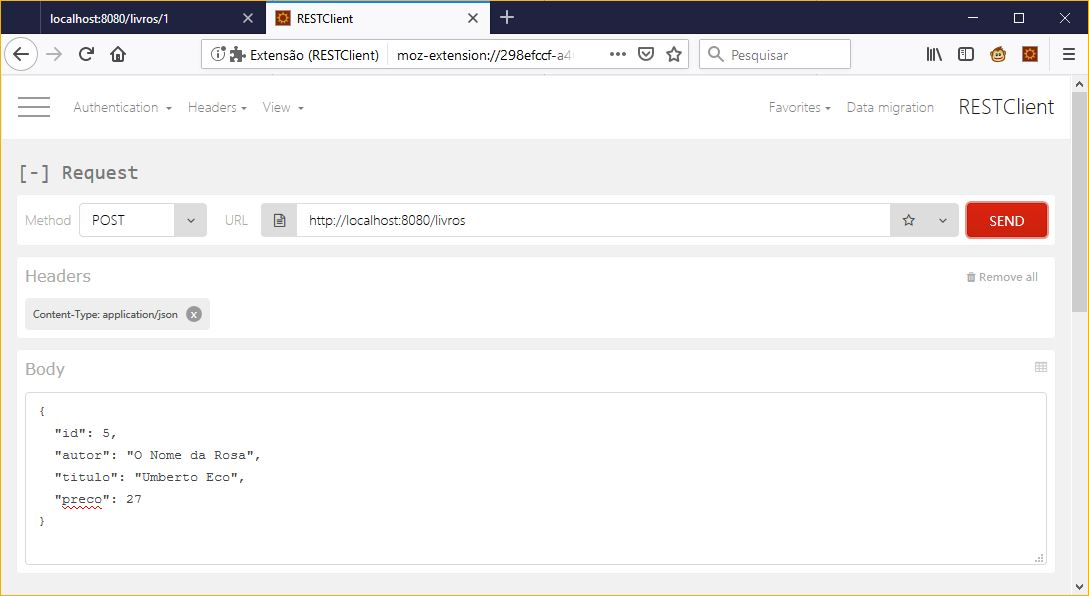
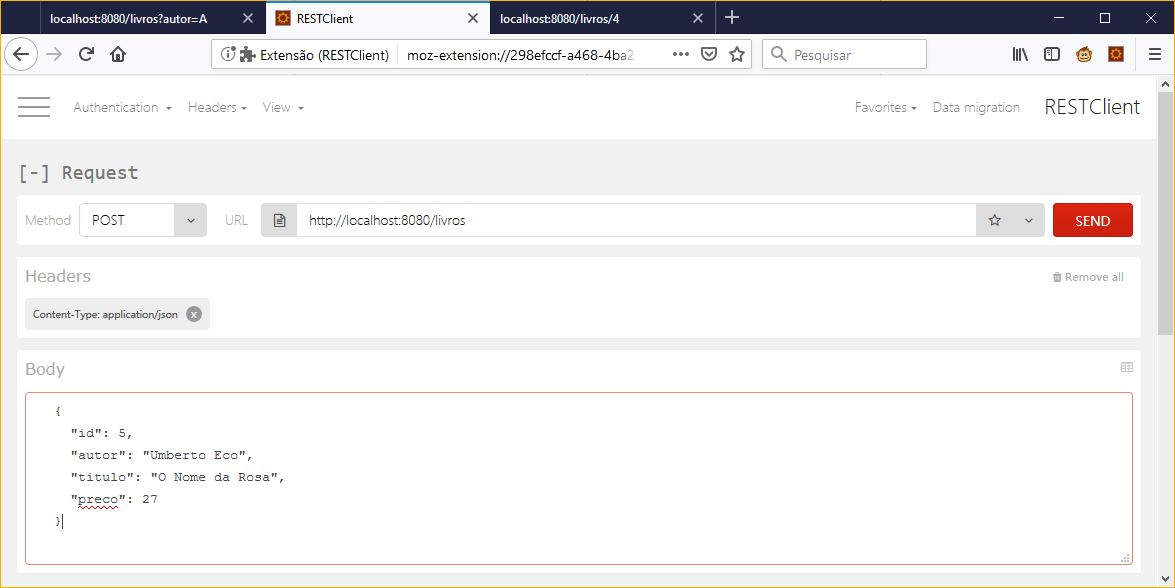
pesquisando

diff --git a/04-end-point-rest.md b/04-end-point-rest.md
@@ -8,22 +8,26 @@ Agora, iremos criar nosso primeiro web service RESTful com Spring.
 
 Criaremos um serviço que irá aceitar um request HTTP GET para:
 
-```http://localhost:8080/livros```
+```
+http://localhost:8080/livros
+```
+
 
 E responder com a representação JSON a seguir:
+
 
 ```json
 [
   {
     "id": 1,
-    "autor": "Don Quixote",
-    "titulo": "Miguel de Cervantes",
+    "autor": "Miguel de Cervantes",
+    "titulo": "Don Quixote",
     "preco": 44
   },
   {
     "id": 2,
-    "autor": "O Senhor dos Anéis",
-    "titulo": "J. R. R. Tolkien",
+    "autor": "J. R. R. Tolkien",
+    "titulo": "O Senhor dos Anéis",
     "preco": 23
   }
 ]
@@ -96,8 +100,8 @@ public class LivrosController {
 	public List<Livro> getLivros() {
 		ArrayList<Livro> livros = new ArrayList<Livro>();
 		
-		Livro l1 = new Livro(1l, "Don Quixote", "Miguel de Cervantes", 144.0);
-		Livro l2 = new Livro(2l, "O Senhor dos Anéis", "J. R. R. Tolkien", 123.0);
+		Livro l1 = new Livro(1l, "Miguel de Cervantes", "Don Quixote", 144.0);
+		Livro l2 = new Livro(2l, "J. R. R. Tolkien", "O Senhor dos Anéis", 123.0);
 		
 		livros.add(l1);
 		livros.add(l2);
@@ -128,14 +132,14 @@ Agora já podemos compilar e executar nossa aplicação, acessando o endereço h
 [
   {
     "id": 1,
-    "autor": "Don Quixote",
-    "titulo": "Miguel de Cervantes",
+    "autor": "Miguel de Cervantes",
+    "titulo": "Don Quixote",
     "preco": 44
   },
   {
     "id": 2,
-    "autor": "O Senhor dos Anéis",
-    "titulo": "J. R. R. Tolkien",
+    "autor": "J. R. R. Tolkien",
+    "titulo": "O Senhor dos Anéis",
     "preco": 23
   }
 ]
@@ -161,9 +165,9 @@ public class LivrosController {
 	public List<Livro> getLivros() {
 		ArrayList<Livro> livros = new ArrayList<Livro>();
 		
-		Livro l1 = new Livro(1l, "Don Quixote", "Miguel de Cervantes", 144.0);
-		Livro l2 = new Livro(2l, "O Senhor dos Anéis", "J. R. R. Tolkien", 123.0);
-		Livro l3 = new Livro(3l, "O Pequeno Príncipe", "Antoine de Saint-Exupéry", 152.0);
+		Livro l1 = new Livro(1l, "Miguel de Cervantes", "Don Quixote", 144.0);
+		Livro l2 = new Livro(2l, "J. R. R. Tolkien", "O Senhor dos Anéis", 123.0);
+		Livro l3 = new Livro(3l, "Antoine de Saint-Exupéry", "O Pequeno Príncipe", 152.0);
 		
 		livros.add(l1);
 		livros.add(l2);
@@ -180,20 +184,20 @@ Após compilar e executar nossa aplicação, acessando o endereço http://localh
 [
   {
     "id": 1,
-    "autor": "Don Quixote",
-    "titulo": "Miguel de Cervantes",
+    "autor": "Miguel de Cervantes",
+    "titulo": "Don Quixote",
     "preco": 44
   },
   {
     "id": 2,
-    "autor": "O Senhor dos Anéis",
-    "titulo": "J. R. R. Tolkien",
+    "autor": "J. R. R. Tolkien",
+    "titulo": "O Senhor dos Anéis",
     "preco": 23
   },
   {
     "id": 3,
-    "autor": "O Pequeno Príncipe",
-    "titulo": "Antoine de Saint-Exupéry",
+    "autor": "Antoine de Saint-Exupéry",
+    "titulo": "O Pequeno Príncipe",
     "preco": 52
   }
 ]

diff --git a/07-alterando-recursos.md b/07-alterando-recursos.md
@@ -38,7 +38,7 @@ public class LivrosController {
 
 Teste a funcionalidade utilizando o RESTClient, pra isso, altere um recurso existente e em seguida o recupere para verificar se as alterações foram realmente persistidas, em seguida, tente alterar um recurso inexistente e veja se o microsserviço está devolvendo um erro correspondente adequado.
 
-## Excluindo um recurso
+## Excluindo um Recurso
 
 Falta pouco para completarmos as funcionalidades do CRUD (Create Retrieve Update Delete) de nosso microsserviço, mas ainda precisamos ser capazes de excluir livros, faremos isso agora, é uma funcionalidade simples dado o que já fizemos anteriormente.
 
@@ -66,6 +66,49 @@ public class LivrosController {
 				.orElseThrow(() -> new ResponseStatusException(HttpStatus.NOT_FOUND, "Livro não encontrado: " + id));
 		
 		listaLivros.remove(livro);
+	}
+}
+```
+
+## Pesquisando por Recursos
+
+Concluímos todas as funcionalidades básicas de nosso microsserviço, mas vamos colocar ainda uma funcionalidade adicional, que é a possibilidade de pesquisar livros com base em seus atributos de nome e autor, faremos isso utilizando anotação ```RequestParam```:
+
+```java
+// Código atual omitido
+
+// Novidade aqui
+import java.util.Optional;
+import java.util.stream.Collectors;
+import org.springframework.web.bind.annotation.RequestParam;
+
+@RestController
+@RequestMapping("/livros")
+public class LivrosController {
+	
+    // Código atual omitido
+
+    // Novidade aqui
+	@GetMapping
+	public List<Livro> getLivros(@RequestParam("autor") Optional<String> autor,
+			@RequestParam("titulo") Optional<String> titulo) {
+		logger.info("getLivros - autor: " + autor.orElse("Não informado") + " titulo: " + titulo.orElse("Não informado"));
+
+		List<Livro> listaRetorno = listaLivros;
+
+		if (autor.isPresent()) {
+			listaRetorno = listaRetorno.stream()
+					.filter(l -> l.getAutor().toUpperCase().contains(autor.get().toUpperCase()))
+					.collect(Collectors.toList());
+		}
+		
+		if (titulo.isPresent()) {
+			listaRetorno = listaRetorno.stream()
+					.filter(l -> l.getTitulo().toUpperCase().contains(titulo.get().toUpperCase()))
+					.collect(Collectors.toList());
+		}
+
+		return listaRetorno;
 	}
 }
 ```

diff --git a/05-recuperando-um-recurso.md b/05-recuperando-um-recurso.md
@@ -13,8 +13,8 @@ E responder com a representação JSON como a seguir:
 ```json
 {
   "id": 1,
-  "autor": "Don Quixote",
-  "titulo": "Miguel de Cervantes",
+  "autor": "Miguel de Cervantes",
+  "titulo": "Don Quixote",
   "preco": 44
 }
 ```
@@ -49,7 +49,7 @@ public class LivrosController {
 	@RequestMapping("/livros/{id}")
 	public Livro getLivroPorId(@PathVariable Long id) {
 		System.out.println("id: " + id);
-		Livro l = new Livro(1l, "Don Quixote", "Miguel de Cervantes", 144.0);
+		Livro l = new Livro(1l, "Miguel de Cervantes", "Don Quixote", 144.0);
 		return l;
 	}
 }
@@ -62,8 +62,8 @@ Com isso, acessando no navegador o endereço http://localhost:8080/livros/1 obte
 ```json
 {
   "id": 1,
-  "autor": "Don Quixote",
-  "titulo": "Miguel de Cervantes",
+  "autor": "Miguel de Cervantes",
+  "titulo": "Don Quixote",
   "preco": 144
 }
 ```
@@ -113,10 +113,10 @@ public class LivroServiceApplication {
 		
 		ArrayList<Livro> livros = new ArrayList<Livro>();
 		
-		Livro l1 = new Livro(1l, "Don Quixote", "Miguel de Cervantes", 144.0);
-		Livro l2 = new Livro(2l, "O Senhor dos Anéis", "J. R. R. Tolkien", 123.0);
-		Livro l3 = new Livro(3l, "O Pequeno Príncipe", "Antoine de Saint-Exupéry", 152.0);
-		Livro l4 = new Livro(4l, "Um Conto de Duas Cidades", "Charles Dickens", 35.0);
+		Livro l1 = new Livro(1l, "Miguel de Cervantes", "Don Quixote", 144.0);
+		Livro l2 = new Livro(2l, "J. R. R. Tolkien", "O Senhor dos Anéis", 123.0);
+		Livro l3 = new Livro(3l, "Antoine de Saint-Exupéry", "O Pequeno Príncipe", 152.0);
+		Livro l4 = new Livro(4l, "Charles Dickens", "Um Conto de Duas Cidades", 35.0);
 		
 		livros.add(l1);
 		livros.add(l2);

diff --git a/06-incluindo-um-recurso.md b/06-incluindo-um-recurso.md
@@ -178,7 +178,7 @@ public class LivrosController {
 Ao efetuarmos a chamada POST utilizando o RESTClient devemos ver algo como a linha abaixo no console:
 
 ```bash
-Livro [id=5, autor=O Nome da Rosa, titulo=Umberto Eco, preco=27.0]
+Livro [id=5, autor=Umberto Eco, titulo=O Nome da Rosa, preco=27.0]
 ```
 
 Para que o livro possa de fato ser incluído na listagem, devemos encontrar um ID válido para ele e inserir o novo livro em ```listaLivros```, faremos isso agora:
